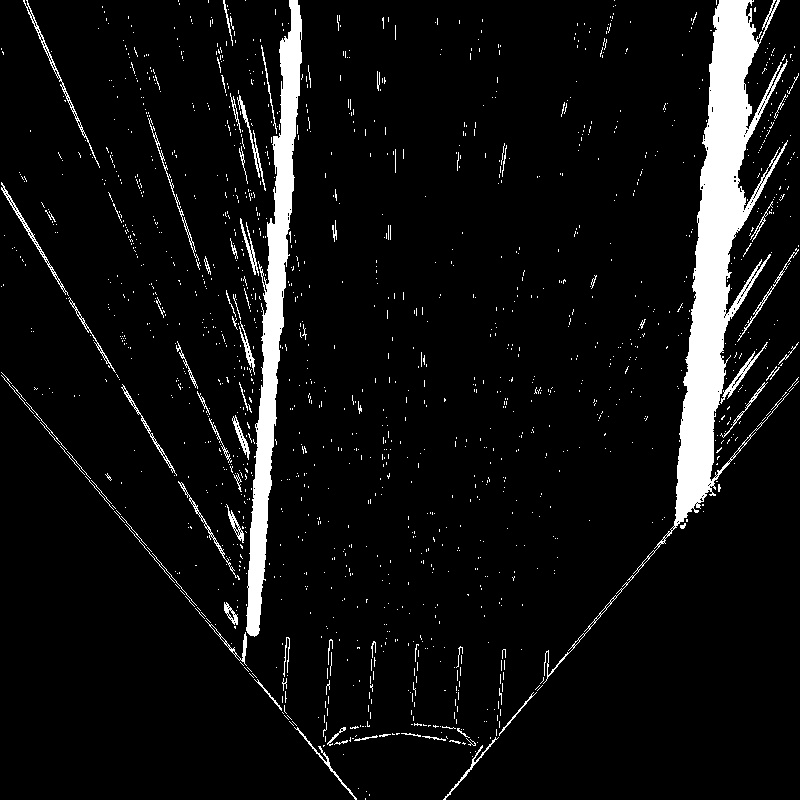
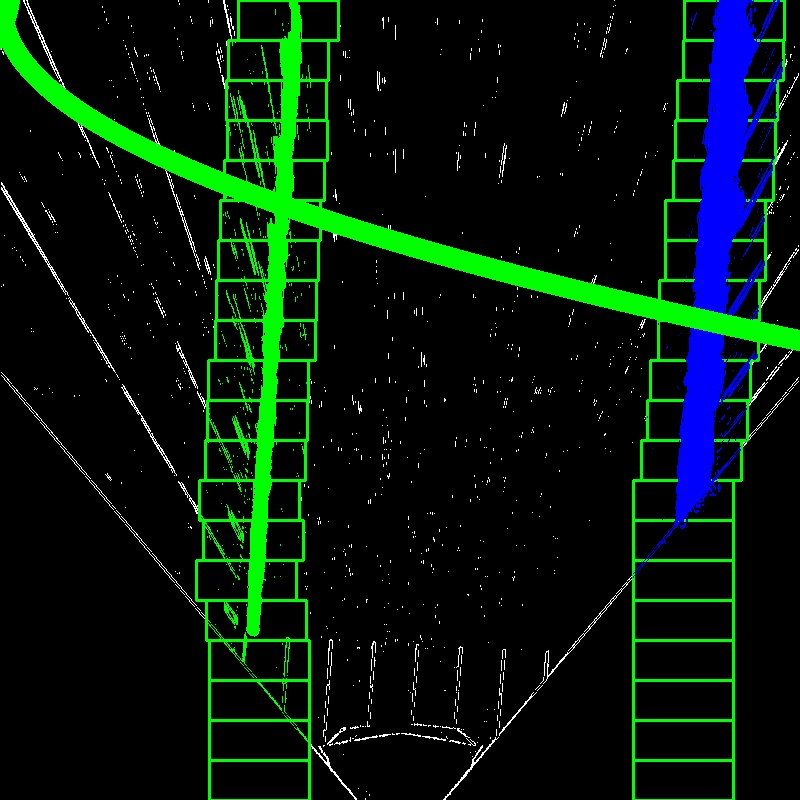
test files

Changed region(s): [[0.0, 0.0, 1.0, 1.0]]

diff --git a/resource/test_treshold.py b/resource/test_treshold.py
@@ -1,0 +1,253 @@
+import os
+import cv2
+import numpy as np
+
+def drawLaneArea(cv_image):
+        """Draw lane area on top of the image
+        
+        Args:
+            cv_image (OpenCV image): image to be drawn on
+        
+        Returns:
+            np.array: image with lane area drawn on it
+        """        
+        # get the tresholded image
+        binary = treshold_binary(cv_image)
+        left_fit, right_fit, out_img = fit_polynomial(binary)
+        # draw_img = draw_filled_polygon(cv_image, left_fit, right_fit)
+        draw_img = draw_polylines(out_img, left_fit, right_fit)
+        # draw_img = draw_polylines(out_img, left_fit, right_fit)
+        # draw_img = draw_filled_polygon(out_img, left_fit, right_fit)
+        # get the perspective transform matrix
+        # self.transformMatrix = self.getPerspectiveTransformMatrix(cv_image)
+        # get the scale factors
+        # self.x_scale, self.y_scale = self.getScaleFactors(cv_image)
+        # get the lane area
+        # lane_area = self.getLaneArea(binary)
+        # draw the lane area
+        # lane_area_img = self.drawLaneAreaOnImage(cv_image, lane_area)
+        lane_area_img = draw_img
+        return lane_area_img
+
+# draw lines of polynomials
+def draw_polylines(img, left_fit, right_fit):
+    draw_img = np.copy(img)
+    # Generate x and y values for plotting        
+    ploty, left_fitx, right_fitx = get_xy(draw_img.shape[0], left_fit, right_fit)
+
+    draw_left_lane_points = (np.asarray([left_fitx, ploty]).T).astype(np.int32)   # needs to be int32 and transposed
+    cv2.polylines(draw_img, [draw_left_lane_points], False, (0,255,0), 20)  # args: image, points, closed, color
+    draw_right_lane_points = (np.asarray([right_fitx, ploty]).T).astype(np.int32)   # needs to be int32 and transposed
+    cv2.polylines(draw_img, [draw_right_lane_points], False, (0,255,0), 20)  # args: image, points, closed, color
+    
+    return draw_img
+
+# draw a green polygon between two lanes
+def draw_filled_polygon(img, left_fit, right_fit):
+    draw_img = np.copy(img)
+    ploty, left_fitx, right_fitx = get_xy(draw_img.shape[0], left_fit, right_fit)
+    
+    all_x = np.concatenate([left_fitx, np.flip(right_fitx, 0)])
+    all_y = np.concatenate([ploty, np.flip(ploty, 0)])
+    all_points = [(np.asarray([all_x, all_y]).T).astype(np.int32)]
+    cv2.fillPoly(draw_img, all_points, (0,255,0))
+    
+    return draw_img
+
+def get_xy(shape_0, left_fit, right_fit):
+    ploty = np.linspace(0, shape_0-1, shape_0 )
+    try:
+        left_fitx = left_fit[0]*ploty**2 + left_fit[1]*ploty + left_fit[2]
+        right_fitx = right_fit[0]*ploty**2 + right_fit[1]*ploty + right_fit[2]
+    except TypeError:
+        # Avoids an error if `left` and `right_fit` are still none or incorrect
+        print('The function failed to fit a line!')
+        left_fitx = 1*ploty**2 + 1*ploty
+        right_fitx = 1*ploty**2 + 1*ploty
+        
+    return ploty, left_fitx, right_fitx
+
+def fit_polynomial(treshold_warped):
+    """return polynomial for both lanes
+
+    Args:
+        treshold_warped (CVimage): tresholded binary image
+
+    Returns:
+        tuple: polynomials for right and left lane
+    """        
+    h, w = treshold_warped.shape[0], treshold_warped.shape[1]
+    # ym_per_pix, xm_per_pix - meters per pixel in x or y dimension
+    ym_per_pix=10.0/h
+    xm_per_pix=10.0/w
+    left_fit = [0,0,0]
+    right_fit = [0,0,0]
+        
+    # Find our lane pixels first
+    leftx, lefty, rightx, righty, out_img = find_lane_pixels(treshold_warped, True)
+    
+    # check if the image is not empty
+    if (leftx.size > 0 and lefty.size > 0 and rightx.size > 0 and righty.size > 0):
+        left_fit = np.polyfit(lefty*ym_per_pix, leftx*xm_per_pix, 2)
+        right_fit = np.polyfit(righty*ym_per_pix, rightx*xm_per_pix, 2)      
+    
+    return left_fit, right_fit, out_img
+
+def find_lane_pixels(image, draw=False):
+    """find lane pixels in image with sliding windows
+
+    Args:
+        image (CVimage): tresholded binary image
+        draw (bool, optional): draw rectangles on the image or not. Defaults to False.
+
+    Returns:
+        tuple: right and left lane pixels
+    """    
+    # HYPERPARAMETERS
+    # Choose the number of sliding windows
+    nwindows = 20
+    # Set the width of the windows +/- margin
+    margin = 50
+    # Set minimum number of pixels found to recenter window
+    minpix = 200
+
+    treshold_warped = image[:,:,0]
+    out_img = np.copy(image)
+    # Take a histogram of the bottom half of the image
+    histogram = np.sum(treshold_warped[treshold_warped.shape[0]//2:,:], axis=0)
+    from scipy.signal import find_peaks
+    peaks, _ = find_peaks(histogram, distance=300)
+    # if the image is empty
+    if (np.amax(histogram) < 10):
+        leftx = lefty = rightx = righty = np.array([])
+    else:        
+        # Find the peak of the left and right halves of the histogram
+        # These will be the starting point for the left and right lines
+        midpoint = np.int64(histogram.shape[0]//2)
+        leftx_base = np.argmax(histogram[:midpoint-margin])
+        rightx_base = np.argmax(histogram[midpoint+margin:]) + midpoint  
+        leftx_base = peaks[0]
+        rightx_base = peaks[-1]
+
+        # Set height of windows - based on nwindows above and image shape
+        window_height = np.int64(treshold_warped.shape[0]//nwindows)
+        # Identify the x and y positions of all nonzero pixels in the image
+        nonzero = treshold_warped.nonzero()
+        nonzeroy = np.array(nonzero[0])
+        nonzerox = np.array(nonzero[1])
+        # Current positions to be updated later for each window in nwindows
+        leftx_current = leftx_base
+        rightx_current = rightx_base
+
+        # Create empty lists to receive left and right lane pixel indices
+        left_lane_inds = []
+        right_lane_inds = []
+
+        # Step through the windows one by one
+        for window in range(nwindows):
+            # Identify window boundaries in x and y (and right and left)
+            win_y_low = treshold_warped.shape[0] - (window+1)*window_height
+            win_y_high = treshold_warped.shape[0] - window*window_height
+            
+            # Find the four below boundaries of the window 
+            win_xleft_low = leftx_current - margin 
+            win_xleft_high = leftx_current + margin                     
+            # draw window rectangles
+            if draw:
+                cv2.rectangle(out_img,(win_xleft_low,win_y_low),
+                (win_xleft_high,win_y_high),(0,255,0), 2) 
+            # Identify the nonzero pixels in x and y within the window 
+            good_left_inds = ((nonzeroy >= win_y_low) & (nonzeroy < win_y_high) & 
+            (nonzerox >= win_xleft_low) &  (nonzerox < win_xleft_high)).nonzero()[0]
+            # Append these indices to the lists
+            left_lane_inds.append(good_left_inds)
+            # If you found > minpix pixels, recenter next window on their mean position 
+            # or stop windows
+            if len(good_left_inds) > minpix:
+                leftx_current=np.int64(np.mean(nonzerox[good_left_inds]))
+
+            # Find the four below boundaries of the window 
+            win_xright_low = rightx_current - margin 
+            win_xright_high = rightx_current + margin                      
+            # draw window rectangles
+            if draw:
+                cv2.rectangle(out_img,(win_xright_low,win_y_low),
+                (win_xright_high,win_y_high),(0,255,0), 2)  
+
+            # Identify the nonzero pixels in x and y within the window                     
+            good_right_inds = ((nonzeroy >= win_y_low) & (nonzeroy < win_y_high) & 
+            (nonzerox >= win_xright_low) &  (nonzerox < win_xright_high)).nonzero()[0]
+            # Append these indices to the lists
+            right_lane_inds.append(good_right_inds)
+            # If you found > minpix pixels, recenter next window on their mean position 
+            # or stop windows
+            if (good_right_inds.shape[0] > minpix):
+                rightx_current=np.int64(np.mean(nonzerox[good_right_inds]))
+
+        # Concatenate the arrays of indices (previously was a list of lists of pixels)
+        try:
+            left_lane_inds = np.concatenate(left_lane_inds)
+            right_lane_inds = np.concatenate(right_lane_inds)
+        except ValueError:
+            # Avoids an error if the above is not implemented fully
+            pass
+
+        # Extract left and right line pixel positions
+        leftx = nonzerox[left_lane_inds]
+        lefty = nonzeroy[left_lane_inds] 
+        rightx = nonzerox[right_lane_inds]
+        righty = nonzeroy[right_lane_inds]
+
+        out_img[lefty, leftx] = [0, 255, 0]
+        out_img[righty, rightx] = [255, 0, 0]
+
+    return leftx, lefty, rightx, righty, out_img 
+
+def treshold_binary(image, s_thresh=(50, 255), sx_thresh=(20, 100)):
+    """Gradient and color tresholding of an image 
+
+    Args:
+        image (OpenCV image): image to be tresholded
+        s_thresh (tuple, optional): Threshold x gradient. Defaults to (50, 255).
+        sx_thresh (tuple, optional): Sobel x treshold. Defaults to (20, 100).
+
+    Returns:
+        np.array: binary image
+    """        
+    # Convert to HLS color space and separate the V channel
+    hls = cv2.cvtColor(image, cv2.COLOR_BGR2HLS)
+    l_channel = hls[:,:,1]
+    s_channel = hls[:,:,2]
+        
+    # Sobel x
+    sobelx = cv2.Sobel(l_channel, cv2.CV_64F, 1, 0) # Take the derivative in x
+    abs_sobelx = np.absolute(sobelx) # Absolute x derivative to accentuate lines away from horizontal
+    scaled_sobel = np.uint8(255*abs_sobelx/np.max(abs_sobelx)) if (np.max(abs_sobelx)) else np.uint8(255*abs_sobelx)
+    
+    # Threshold x gradient
+    sxbinary = np.zeros_like(scaled_sobel)
+    sxbinary[(scaled_sobel >= sx_thresh[0]) & (scaled_sobel <= sx_thresh[1])] = 1
+    
+    # Threshold color channel
+    # in simulation h and s channels are zeros
+    if (np.max(s_channel) == 0):
+        s_channel = l_channel
+    s_binary = np.zeros_like(s_channel)
+    s_binary[(s_channel >= s_thresh[0]) & (s_channel <= s_thresh[1])] = 1
+    
+    # Combine the two binary thresholds
+    combined_binary = np.zeros_like(sxbinary)
+    combined_binary[(s_binary == 1) | (sxbinary == 1)] = 1
+
+    binary = np.dstack((combined_binary, combined_binary, combined_binary)) * 255
+    
+    return binary
+
+
+
+
+test_dir_path = '/home/catundertheleaf/robocar/robocar_ws/src/path_from_image/resource'
+cv_image = cv2.imread(os.path.join(test_dir_path, 'wraped_image.jpg'))
+# cv_image = cv2.imread(os.path.join(test_dir_patSh, 'cv_image.jpg'))
+lane_img = drawLaneArea(cv_image)
+cv2.imwrite(os.path.join(test_dir_path, 'treshold.jpg'), lane_img)
